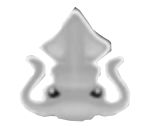
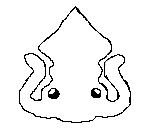
(Should all be working)
-Fixed a bug witht he highscore not saving-changed the build resource to "content"

-Fixed a bug witht he design view which prevented the events working between the main VM and the V- changed some things in the xaml.

-Upaded the squid images to hand drawn

diff --git a/Views/MainWindow.xaml b/Views/MainWindow.xaml
@@ -6,15 +6,16 @@
         xmlns:vm="clr-namespace:Sploosh.ViewModels"
         mc:Ignorable="d"
         Title="MainWindow" Height="1000" Width="1400"
-        ReSizeMode="NoReSize"
+        ResizeMode="NoReSize"
         Name="mainWindow"
         WindowStyle="SingleBorderWindow">
 
     <Window.Resources>
         <vm:MainWindowViewModel x:Key="vm"/>
+        <!--<ViewModels:MainWindowViewModel  x:Key="DesignViewModel"/>-->
     </Window.Resources>
 
-    <Grid DataContext="{StaticResource vm}">
+    <Grid d:DataContext="{Binding Source={StaticResource vm}}">
         <Grid.Background>
             <ImageBrush ImageSource="{Binding BackgroundImagePath}" Stretch="UniformToFill" />
         </Grid.Background>

diff --git a/Views/SettingsWindow.xaml b/Views/SettingsWindow.xaml
@@ -6,7 +6,7 @@
         xmlns:vm="clr-namespace:Sploosh.ViewModels"
         xmlns:local="clr-namespace:Sploosh"
         mc:Ignorable="d"
-        ReSizeMode="NoReSize"
+        ResizeMode="NoReSize"
         WindowStartupLocation="CenterOwner"
         Title="SettingsWindow" Height="300" Width="200"
         WindowStyle="None">

diff --git a/Models/GameState.cs b/Models/GameState.cs
@@ -92,18 +92,22 @@ namespace Sploosh.Models
 
         /// <summary>
         /// This method works out where to put each squid. It loops through
-        /// the length of each squid putting the selected location for each part of the squid into a temporary list.
+        /// the length of each squid putting the selected location for each part
+        /// of the squid into a temporary 2D list "twoDSquares".
         /// 
         /// </summary>
         private static void PlaceSquids()
         {
             //Create a temporary list of 
             List<Squid> squids = new List<Squid>();
+            int squidID = 0;
 
 
             //Loop through array of tuples
             foreach (var squidTuple in GameConstants.SquidTuples)
             {
+                squidID++;
+
                 //Loop through the number of squid for a given Size
                 for (int squidNo = 1; squidNo < squidTuple.noSquid + 1; squidNo++)
                 {
@@ -139,7 +143,7 @@ namespace Sploosh.Models
                             else
                             {
                                 // Try and place the subsequent part of squid
-                                squidPartPlaced = PlaceSubsequentSquidPart(squidTuple, squidNo, squidPart, direction, ref squidPartPositions);
+                                squidPartPlaced = PlaceSubsequentSquidPart(squidTuple, squidID, squidPart, direction, ref squidPartPositions);
 
                                 if (squidPartPlaced == false)
                                     break; //Redo squid place loop
@@ -210,6 +214,7 @@ namespace Sploosh.Models
                 //check to see if at end of loop and therefore last part of squid placed successfully
                 if (squidPart + 1 == squidTuple.squidSize)
                 {
+                    //int tempSize = ;
 
                     //Instantiate squid object add to list of squids
                     listOfSquids.Add(new Squid(squidTuple.squidSize, squidNo));

diff --git a/Views/MainWindow.xaml.cs b/Views/MainWindow.xaml.cs
@@ -31,7 +31,7 @@ namespace Sploosh
             squidHitSoundPath = GameConstants.AssemblyDirectory + "/Sounds/SquidHit.mp3";
             squidMissSoundPath = GameConstants.AssemblyDirectory + "/Sounds/SquidMiss.mp3";
 
-            InitializeComponent();
+            
 
             mainViewModel = new MainWindowViewModel();
             this.DataContext = mainViewModel;
@@ -42,18 +42,8 @@ namespace Sploosh
             backgroundPlayer.Open(new Uri(backgroundMusicPath, UriKind.Relative));
             backgroundPlayer.MediaEnded += new EventHandler(BackgroundMusicEnded);
             backgroundPlayer.Play();
-            
-        }
 
-        /// <summary>
-        /// When the Squid Killed event occurs this plays the appropriate sound effect
-        /// </summary>
-        private void SquidKilledMethod()
-        {
-            killedSoundPlayer.Open(new Uri(squidDeadSoundPath, UriKind.Relative));
-            killedSoundPlayer.Play();
-
-            ScreenShakeAnimation();
+            InitializeComponent();
         }
 
         /// <summary>
@@ -67,7 +57,7 @@ namespace Sploosh
 
 
         /// <summary>
-        /// When the attck mehgtod is called this runs, this plasy the appropriate 
+        /// When the attack method is called this plays the appropriate 
         /// sound effect for a hit/miss
         /// </summary>
         private void AttackMethod(bool hit)
@@ -89,6 +79,17 @@ namespace Sploosh
                 missSoundPlayer.Play();
             }
 
+        }
+
+        /// <summary>
+        /// When the Squid Killed event occurs this plays the appropriate sound effect
+        /// </summary>
+        private void SquidKilledMethod()
+        {
+            killedSoundPlayer.Open(new Uri(squidDeadSoundPath, UriKind.Relative));
+            killedSoundPlayer.Play();
+
+            ScreenShakeAnimation();
         }
 
         /// <summary>

diff --git a/ViewModels/MainWindowViewModel.cs b/ViewModels/MainWindowViewModel.cs
@@ -144,6 +144,8 @@ namespace Sploosh.ViewModels
             GameState.SetupGame(vm);
         }
 
+
+
         private bool CanShowNewContactWindow(object obj)
         {
             return true;
@@ -192,6 +194,7 @@ namespace Sploosh.ViewModels
                 }
                 else
                     AttackEvent?.Invoke(true); //Hit
+                    
 
             }
             else //If attackable but no squid
@@ -200,6 +203,7 @@ namespace Sploosh.ViewModels
                 OneDSquares[selectedIndex].ImagePath = GameConstants.SquareMissPath;
 
                 AttackEvent?.Invoke(false); //Miss
+
             }
 
             //Update selected square and change it's attack status so it cannot be attacked again

diff --git a/FileRepository.cs b/FileRepository.cs
@@ -56,10 +56,11 @@ namespace HelperClass
         /// </summary>
         public static void WriteStringToFile(string fileName, string stringToWrite) 
         {
-            string path = $"{GameConstants.AssemblyDirectory}{fileName}";
+            string path = @$"{GameConstants.AssemblyDirectory}\{fileName}";
 
             //Overwrites all text in file
             File.WriteAllText(path, stringToWrite);
+
         }
 
 

diff --git a/Models/Squid.cs b/Models/Squid.cs
@@ -16,9 +16,9 @@ namespace Sploosh.Models
         private List<int[]> squidPositions;
 
 
-        public Squid(int Size, int id)
+        public Squid(int size, int id)
         {
-            Size = Size;
+            Size = size;
             Id = id;
             hitCounter = 0;
             squidPositions = new List<int[]>();

diff --git a/ViewModels/GameConstants.cs b/ViewModels/GameConstants.cs
@@ -22,7 +22,6 @@ namespace Sploosh.ViewModels
 
         public static readonly (string name, int squidSize, int noSquid)[] SquidTuples = new (string name, int squidSize, int noSquid)[]
         {
-            ("small", 1, 0),
             ("medium", 2, 1),
             ("large", 3, 1),
             ("giant", 4, 1)
